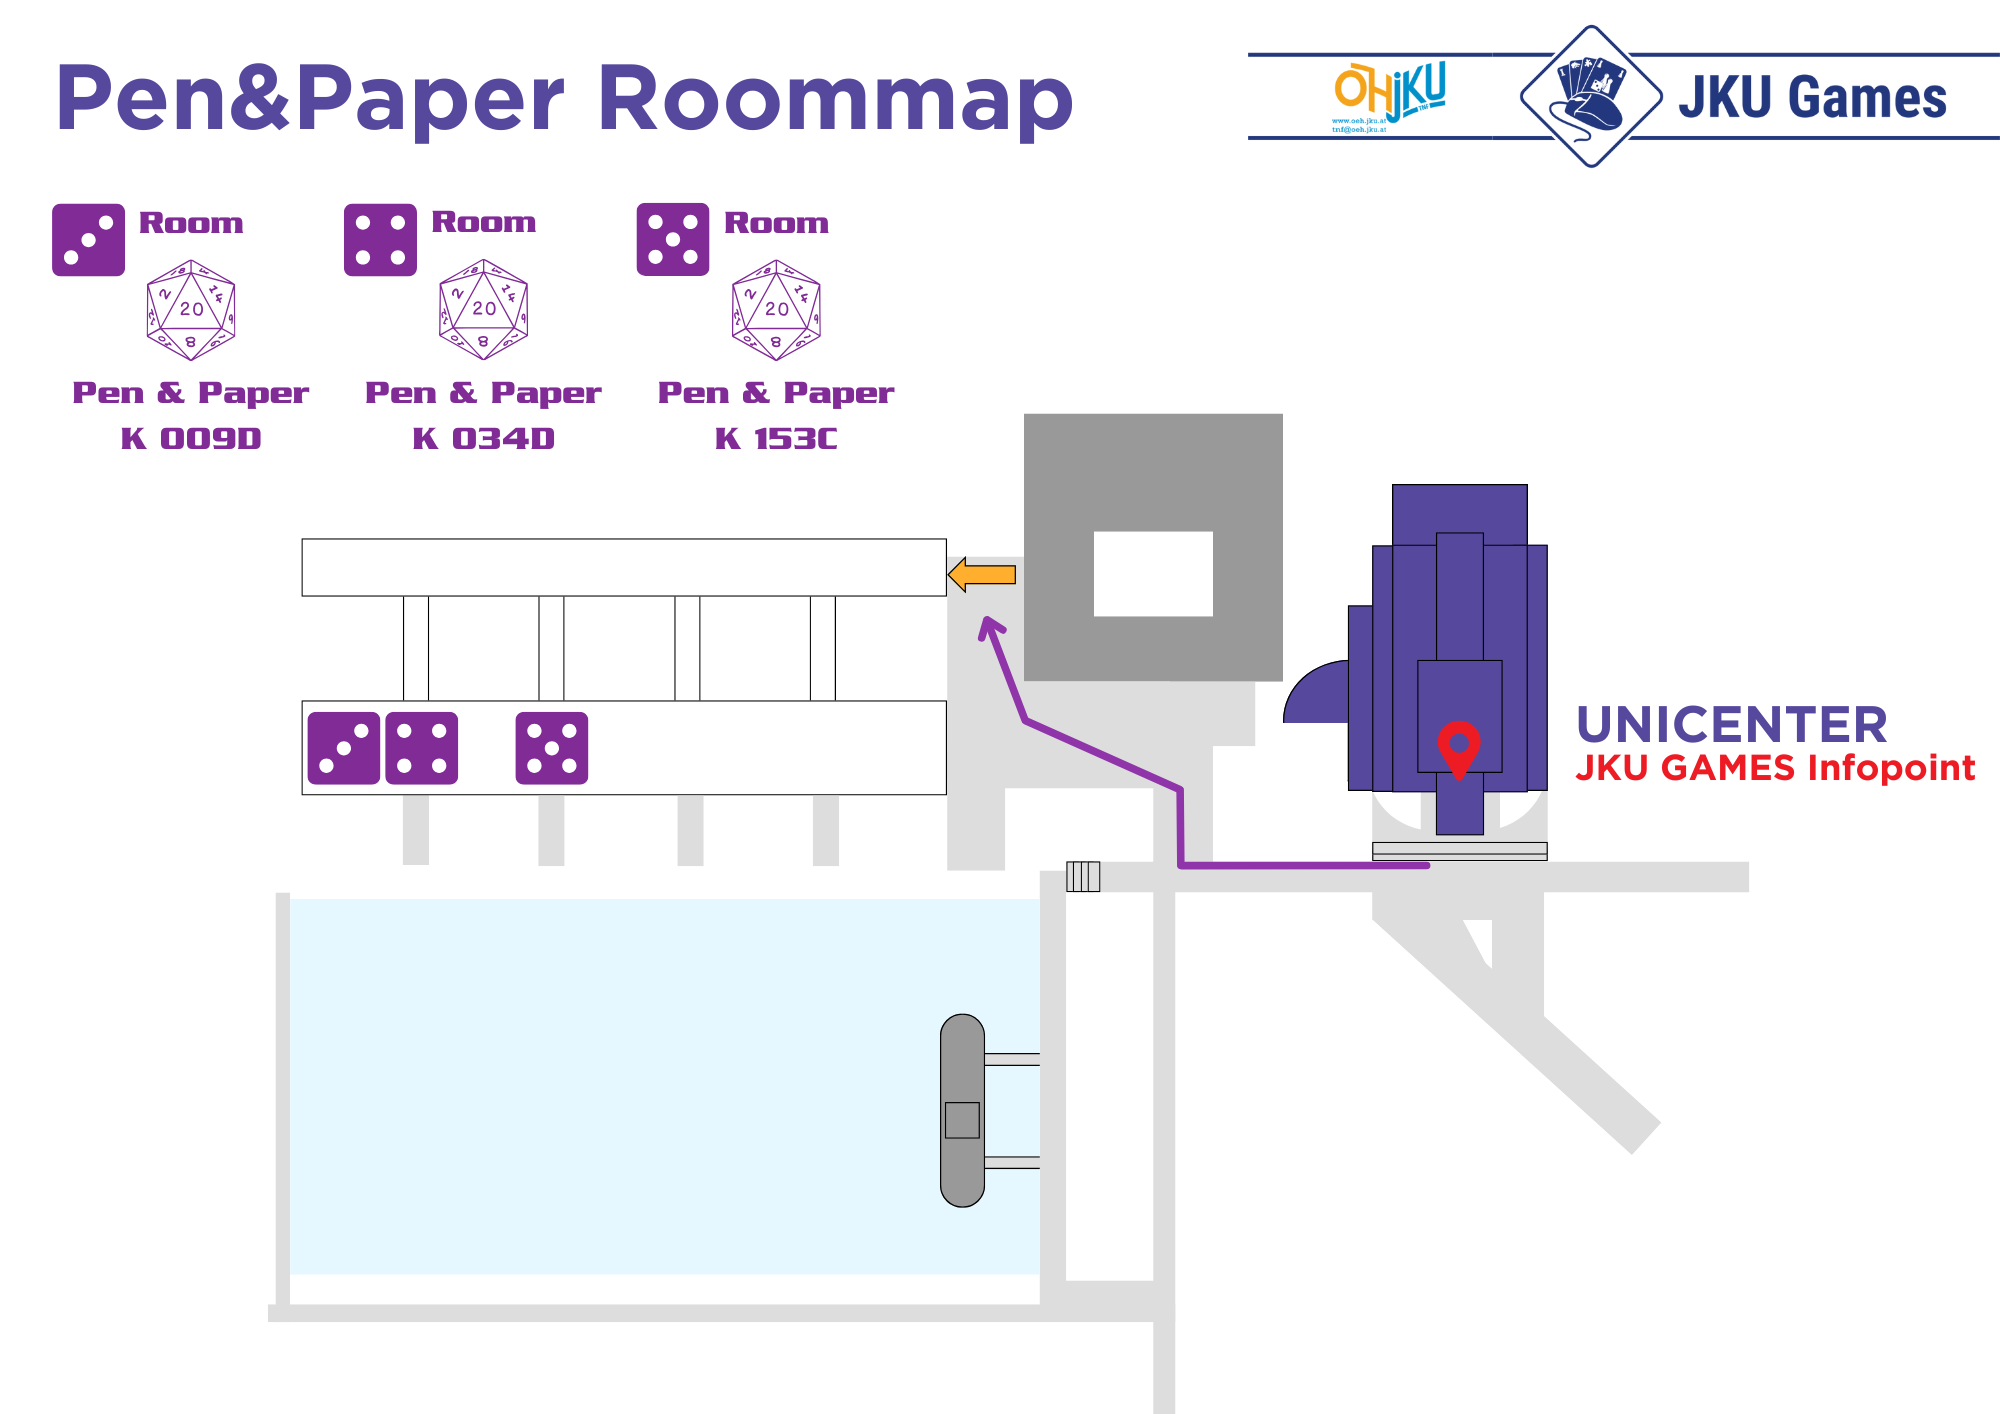
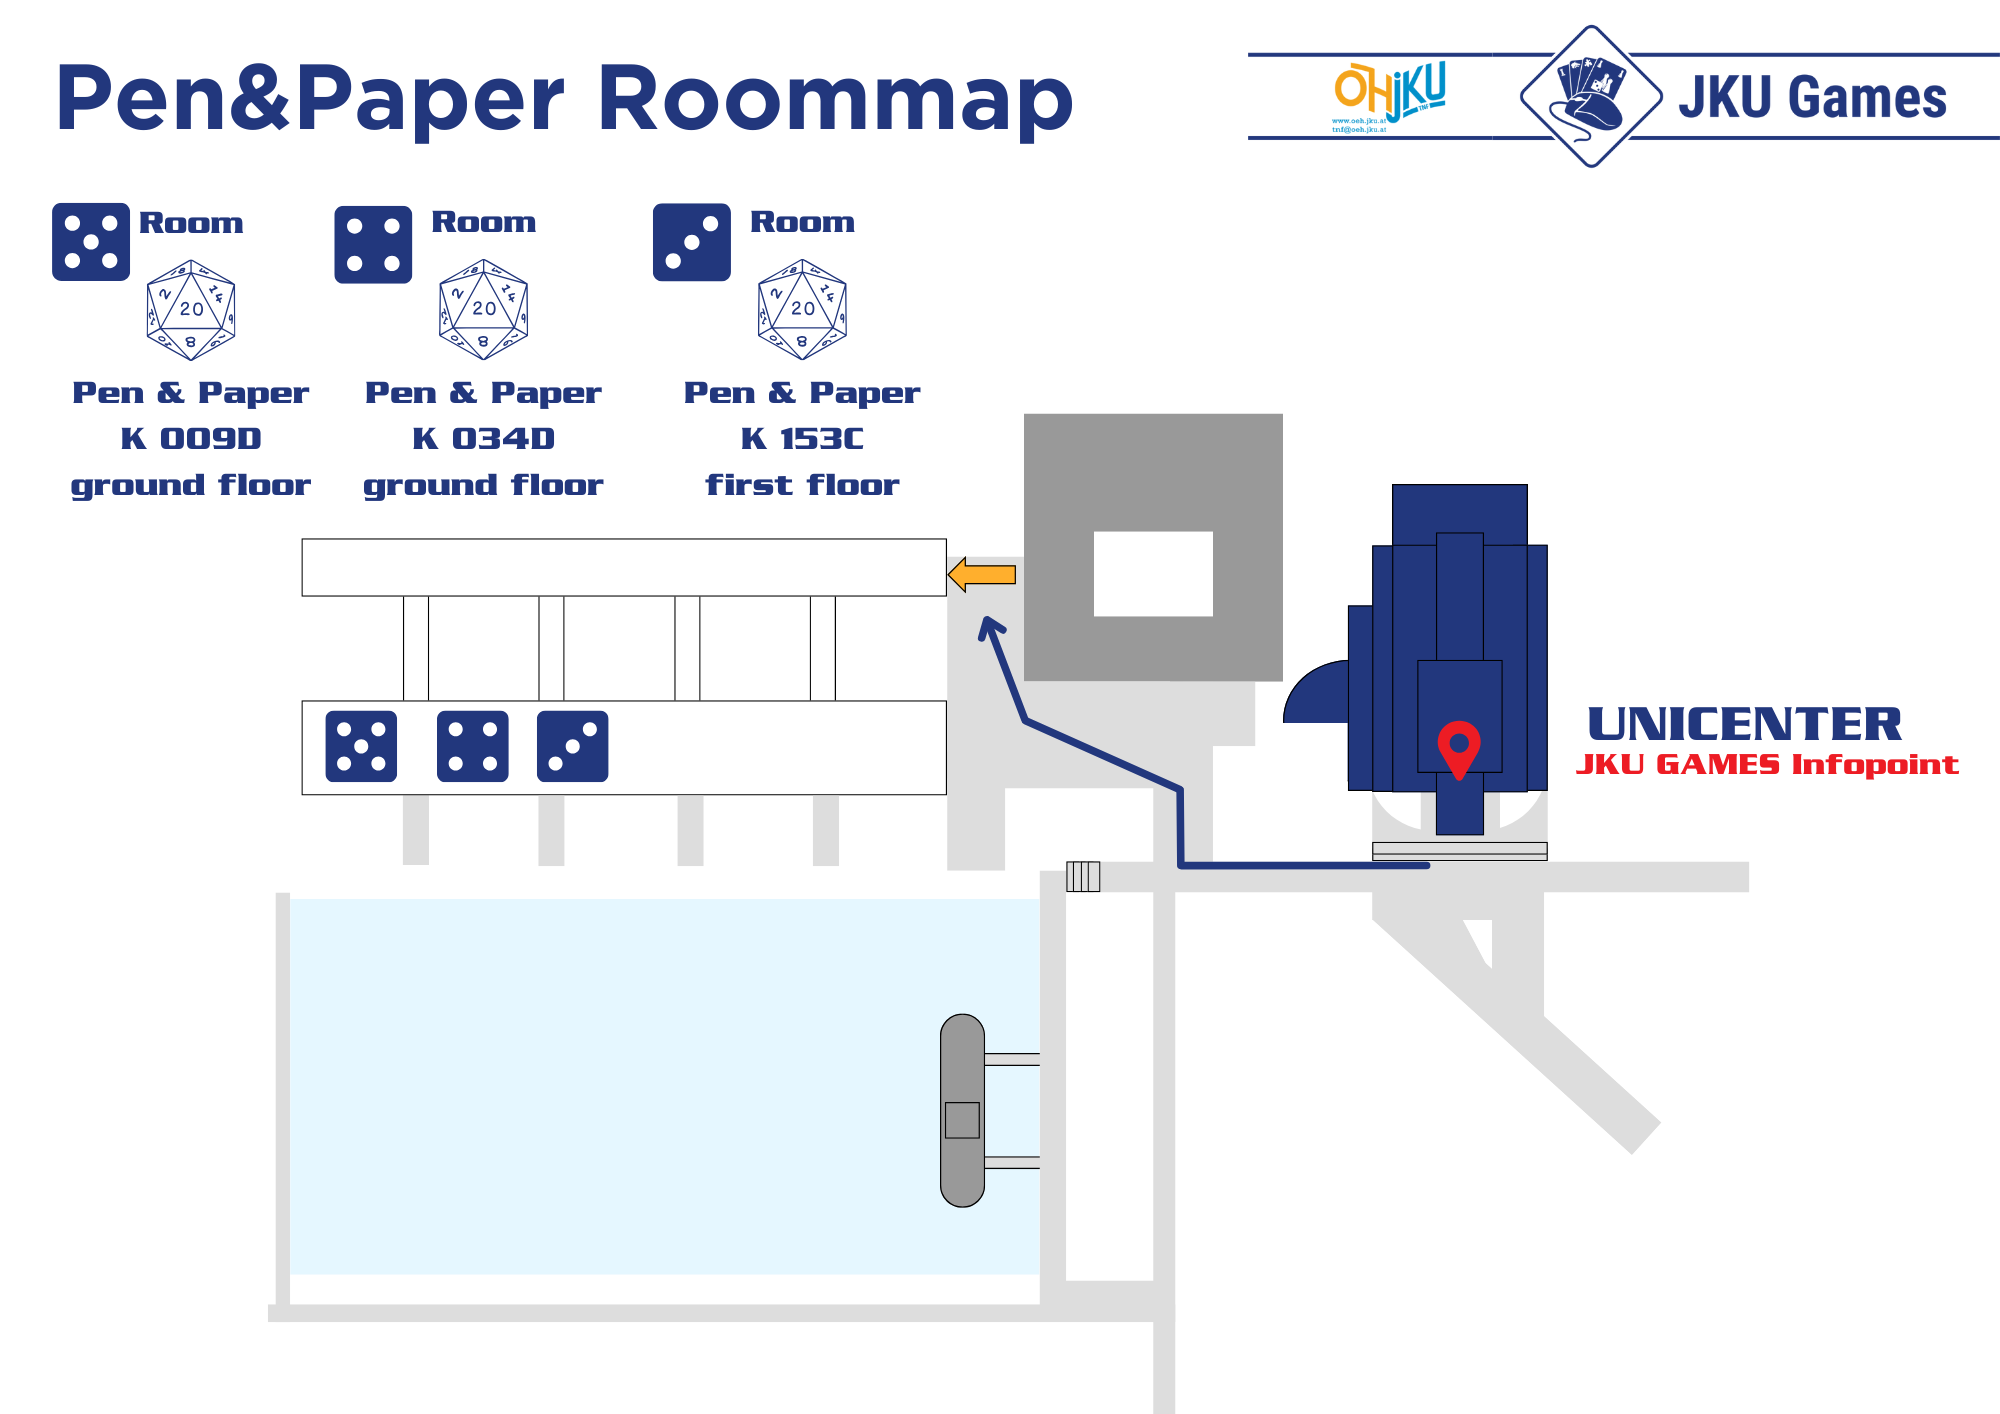
Update Roommap (pnp) and open ticketshop

diff --git a/00_lan.md b/00_lan.md
@@ -16,7 +16,7 @@ permalink: /lan/
 We usually have enough space for all PC players, so you do not need to reserve a place. Still, if you want to make absolutely 
 sure that you are not transporting your 50kg machine here in vain, you can grab a free reservation below. People that have reserved a spot will be prioritized if spots run out.
 
-**Note: The ticket shop has not yet opened. Check back regularly to not miss anything.**
+<!-- **Note: The ticket shop has not yet opened. Check back regularly to not miss anything.** -->
 
 <a href="https://pretix.eu/gamesjku/W25/" target="_blank" rel="noopener noreferrer" class="button img">Reserve a spot!</a>
 

diff --git a/03_turniere.md b/03_turniere.md
@@ -33,7 +33,7 @@ Compete for glory and fame (and little goodies) in one of our tournaments.<br>
 To participate in a tournament, simply get yourself a free ticket using the button below! This helps us plan ahead and 
 guarantees you to get a spot. Left-over spots can also be booked during the event as well.
 
-**Note: The ticket shop has not yet opened. Check back regularly to not miss anything.**
+<!-- **Note: The ticket shop has not yet opened. Check back regularly to not miss anything.** -->
 
 <a href="https://pretix.eu/gamesjku/W25/" target="_blank" rel="noopener noreferrer" class="button img">Get a free ticket!</a>
 

diff --git a/02_penandpaper.md b/02_penandpaper.md
@@ -26,7 +26,7 @@ to the game, we have got you covered! If you want to join an adventure, get a ti
 here on time! Please **sign up for only one game** at this time, remaining spots will be available at the Infopoint on 
 the Event.<br>
 
-**Note: The ticket shop has not yet opened. Check back regularly to not miss anything.**
+<!-- **Note: The ticket shop has not yet opened. Check back regularly to not miss anything.** -->
 
 <a href="https://pretix.eu/gamesjku/W25/" target="_blank" rel="noopener noreferrer" class="button img">Get a free ticket!</a>
 
